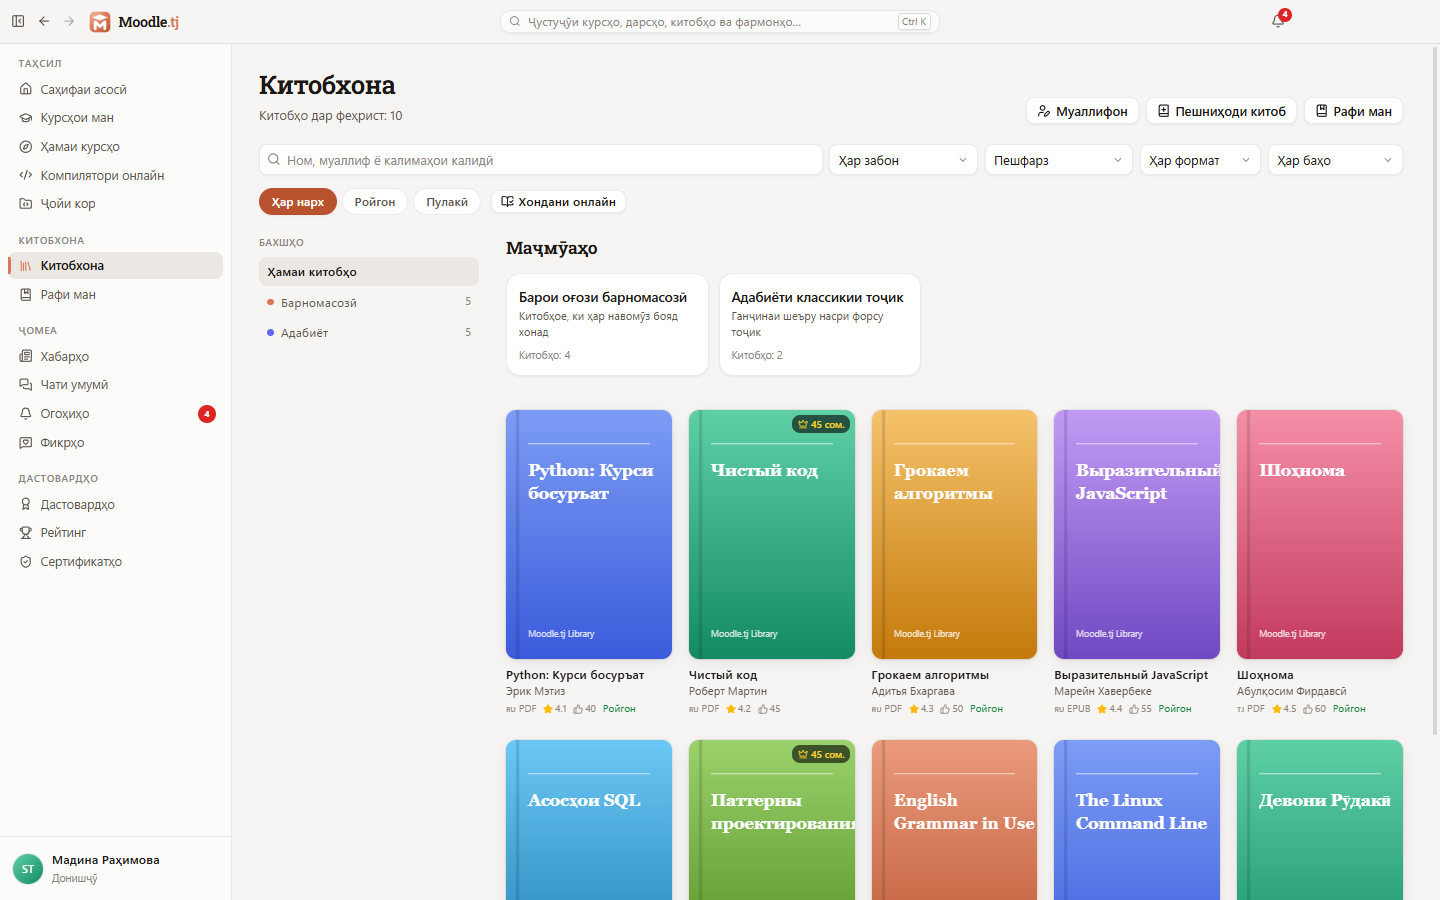
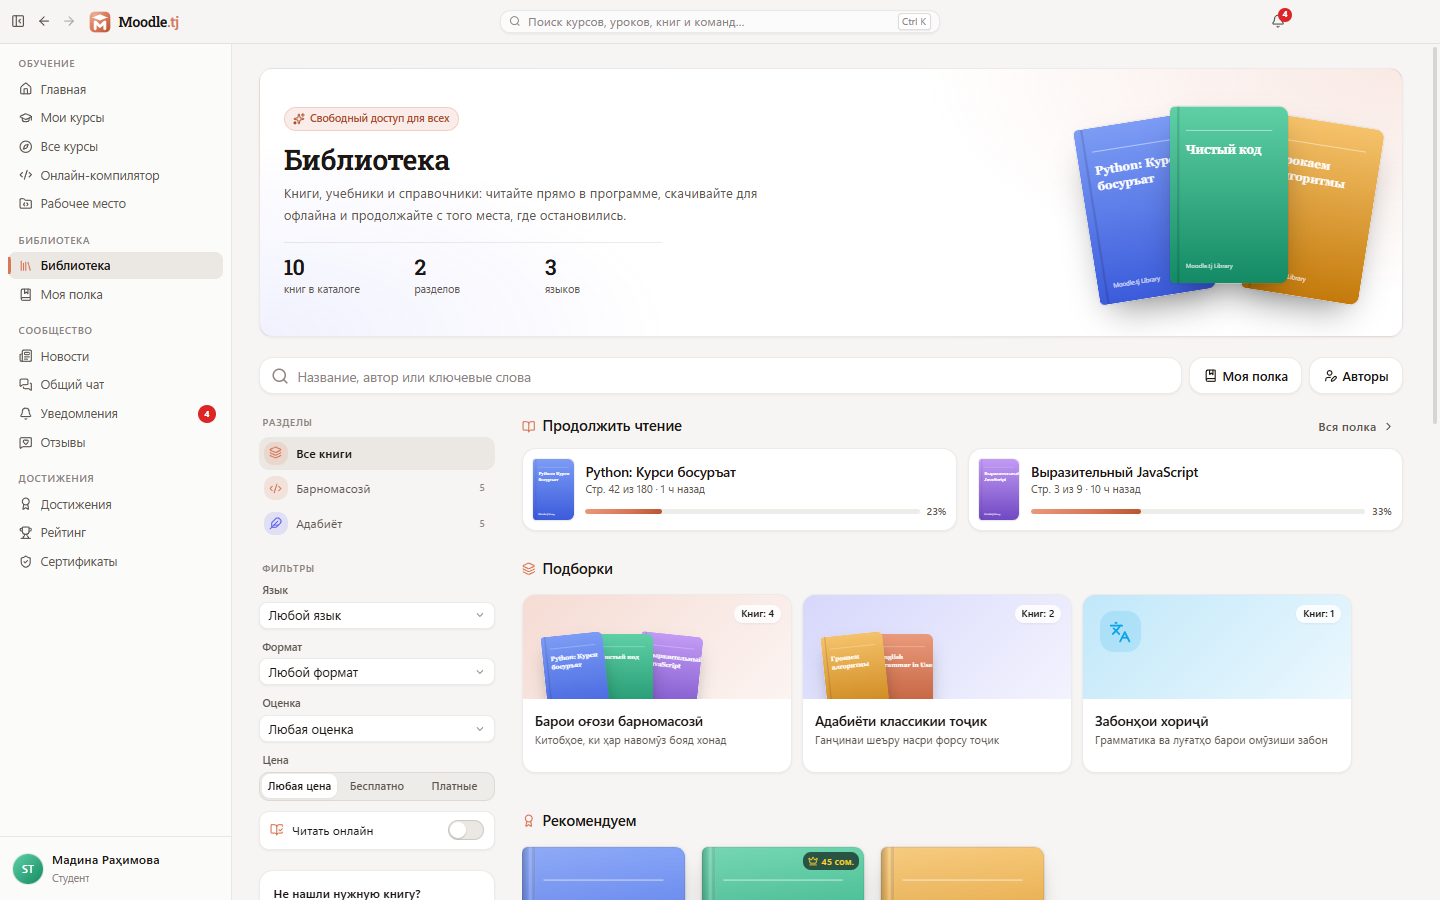
1.2.4: new library and shelf, update check at every start; new library screenshot, CHANGELOG, versions table

diff --git a/CHANGELOG.md b/CHANGELOG.md
@@ -1,5 +1,30 @@
 # Что нового
 
+## 1.2.4 — новая библиотека и полка
+
+### Библиотека
+- **Новый вид**: приветственная карточка с числом книг, разделов и языков и веером рекомендуемых обложек; большая строка поиска; слева — разделы с цветными значками и фильтры (язык, формат, оценка, цена, «Читать онлайн»).
+- **«Продолжить чтение»** — начатые книги с прогрессом прямо в библиотеке, один щелчок до нужной страницы.
+- **Подборки** — карточки с цветом подборки и обложками её книг; выбранная подборка показывается баннером над книгами.
+- **«Рекомендуем»** — как на сайте.
+- **Вид сеткой или списком** (в списке — раздел, формат, размер, язык, оценка, скачивания); выбор запоминается.
+- **«Следить»** за разделом или автором: уведомление о новых книгах, как на сайте.
+- При поиске — сортировка «Точнее к запросу» и подсказка, если точного совпадения нет.
+- Обложки выглядят как книги: корешок, глянец, тень; формат и «Читать онлайн» — значками на обложке.
+
+### Моя полка
+- **Сверху — книга, которую вы читаете сейчас**: большая обложка, страница, когда открывали, прогресс и кнопка «Продолжить»; рядом — счётчики «Читаю», «Прочитано», «Избранное», «Заметки».
+- Новые вкладки **«Покупки»** и **«Подписки»** (с отпиской одной кнопкой), поиск по полке, сортировка (недавние, название, автор, прогресс), вид сеткой или списком.
+- **Заметки и цитаты собраны по книгам**: страница, дата, «Открыть в читалке» и удаление заметки.
+
+### Обновления
+- **Проверка при каждом запуске и входе**: через пару секунд после открытия программы (и сразу после входа) она сама проверяет новую версию. Если она есть — в боковой панели плавно раскрывается карточка обновления; если нет — на 3 секунды появляется «У вас последняя версия» и плавно исчезает. Повторно GitHub не спрашивается, если проверка была меньше минуты назад. Выключается в «Настройки → Обновления».
+
+### Урок
+- **Картинки урока открываются на весь экран** щелчком или клавишей Enter — плавно вылетают из текста и так же плавно возвращаются (щелчок или Esc).
+
+> «Рекомендуем», «Покупки» и «Подписки» появятся, когда на moodle.tj будет загружено обновление сервера (папка `server-update`). До этого программа просто не показывает эти блоки.
+
 ## 1.2.3 — новый вид урока
 
 ### Урок

diff --git a/README.md b/README.md
@@ -191,8 +191,8 @@ The app checks GitHub Releases at start and every 4 hours (automatic checks can 
 
 | Version | Date | Systems | Downloads |
 |---|---|---|---|
+| [1.2.4](https://github.com/imomzoda-dev/MoodleTjDesktop/releases/tag/v1.2.4) | 02.11.2026 | Windows, macOS | ![downloads](https://img.shields.io/github/downloads/imomzoda-dev/MoodleTjDesktop/v1.2.4/total) |
 | [1.2.3](https://github.com/imomzoda-dev/MoodleTjDesktop/releases/tag/v1.2.3) | 02.11.2026 | Windows, macOS | ![downloads](https://img.shields.io/github/downloads/imomzoda-dev/MoodleTjDesktop/v1.2.3/total) |
-| [1.2.2](https://github.com/imomzoda-dev/MoodleTjDesktop/releases/tag/v1.2.2) | 02.11.2026 | Windows, macOS | ![downloads](https://img.shields.io/github/downloads/imomzoda-dev/MoodleTjDesktop/v1.2.2/total) |
 
 Earlier versions — see the [CHANGELOG](CHANGELOG.md).
 

diff --git a/README.ru.md b/README.ru.md
@@ -191,8 +191,8 @@
 
 | Версия | Дата | Системы | Загрузки |
 |---|---|---|---|
+| [1.2.4](https://github.com/imomzoda-dev/MoodleTjDesktop/releases/tag/v1.2.4) | 02.11.2026 | Windows, macOS | ![загрузки](https://img.shields.io/github/downloads/imomzoda-dev/MoodleTjDesktop/v1.2.4/total) |
 | [1.2.3](https://github.com/imomzoda-dev/MoodleTjDesktop/releases/tag/v1.2.3) | 02.11.2026 | Windows, macOS | ![загрузки](https://img.shields.io/github/downloads/imomzoda-dev/MoodleTjDesktop/v1.2.3/total) |
-| [1.2.2](https://github.com/imomzoda-dev/MoodleTjDesktop/releases/tag/v1.2.2) | 02.11.2026 | Windows, macOS | ![загрузки](https://img.shields.io/github/downloads/imomzoda-dev/MoodleTjDesktop/v1.2.2/total) |
 
 Более ранние версии — в [CHANGELOG](CHANGELOG.md).
 
